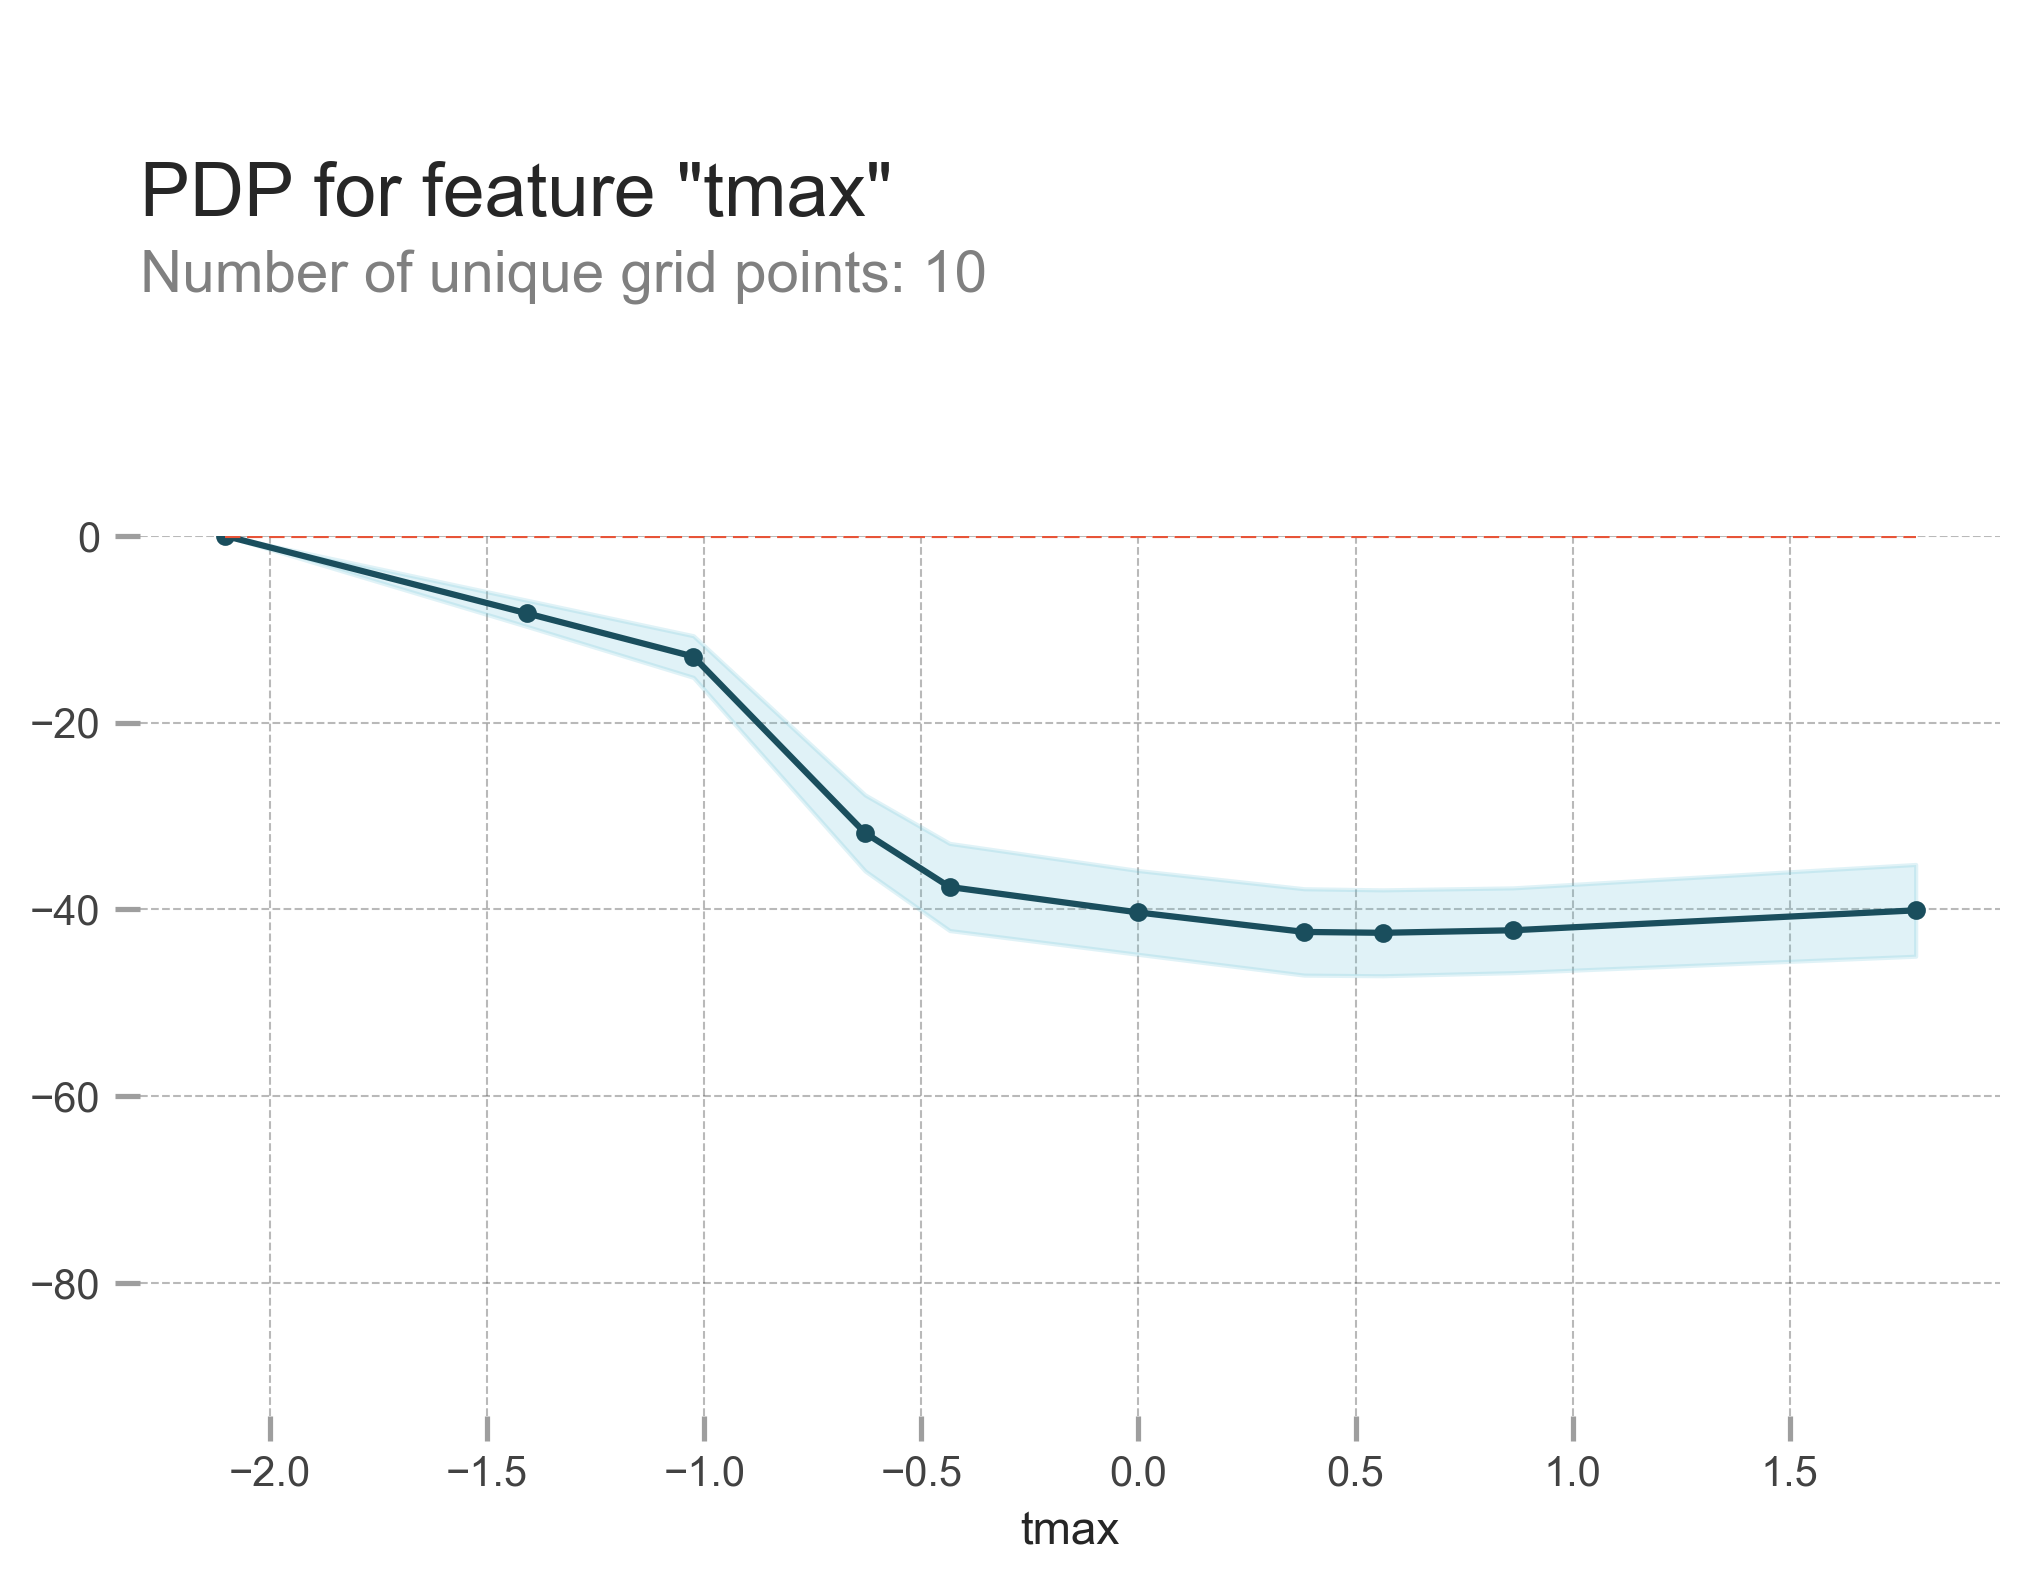
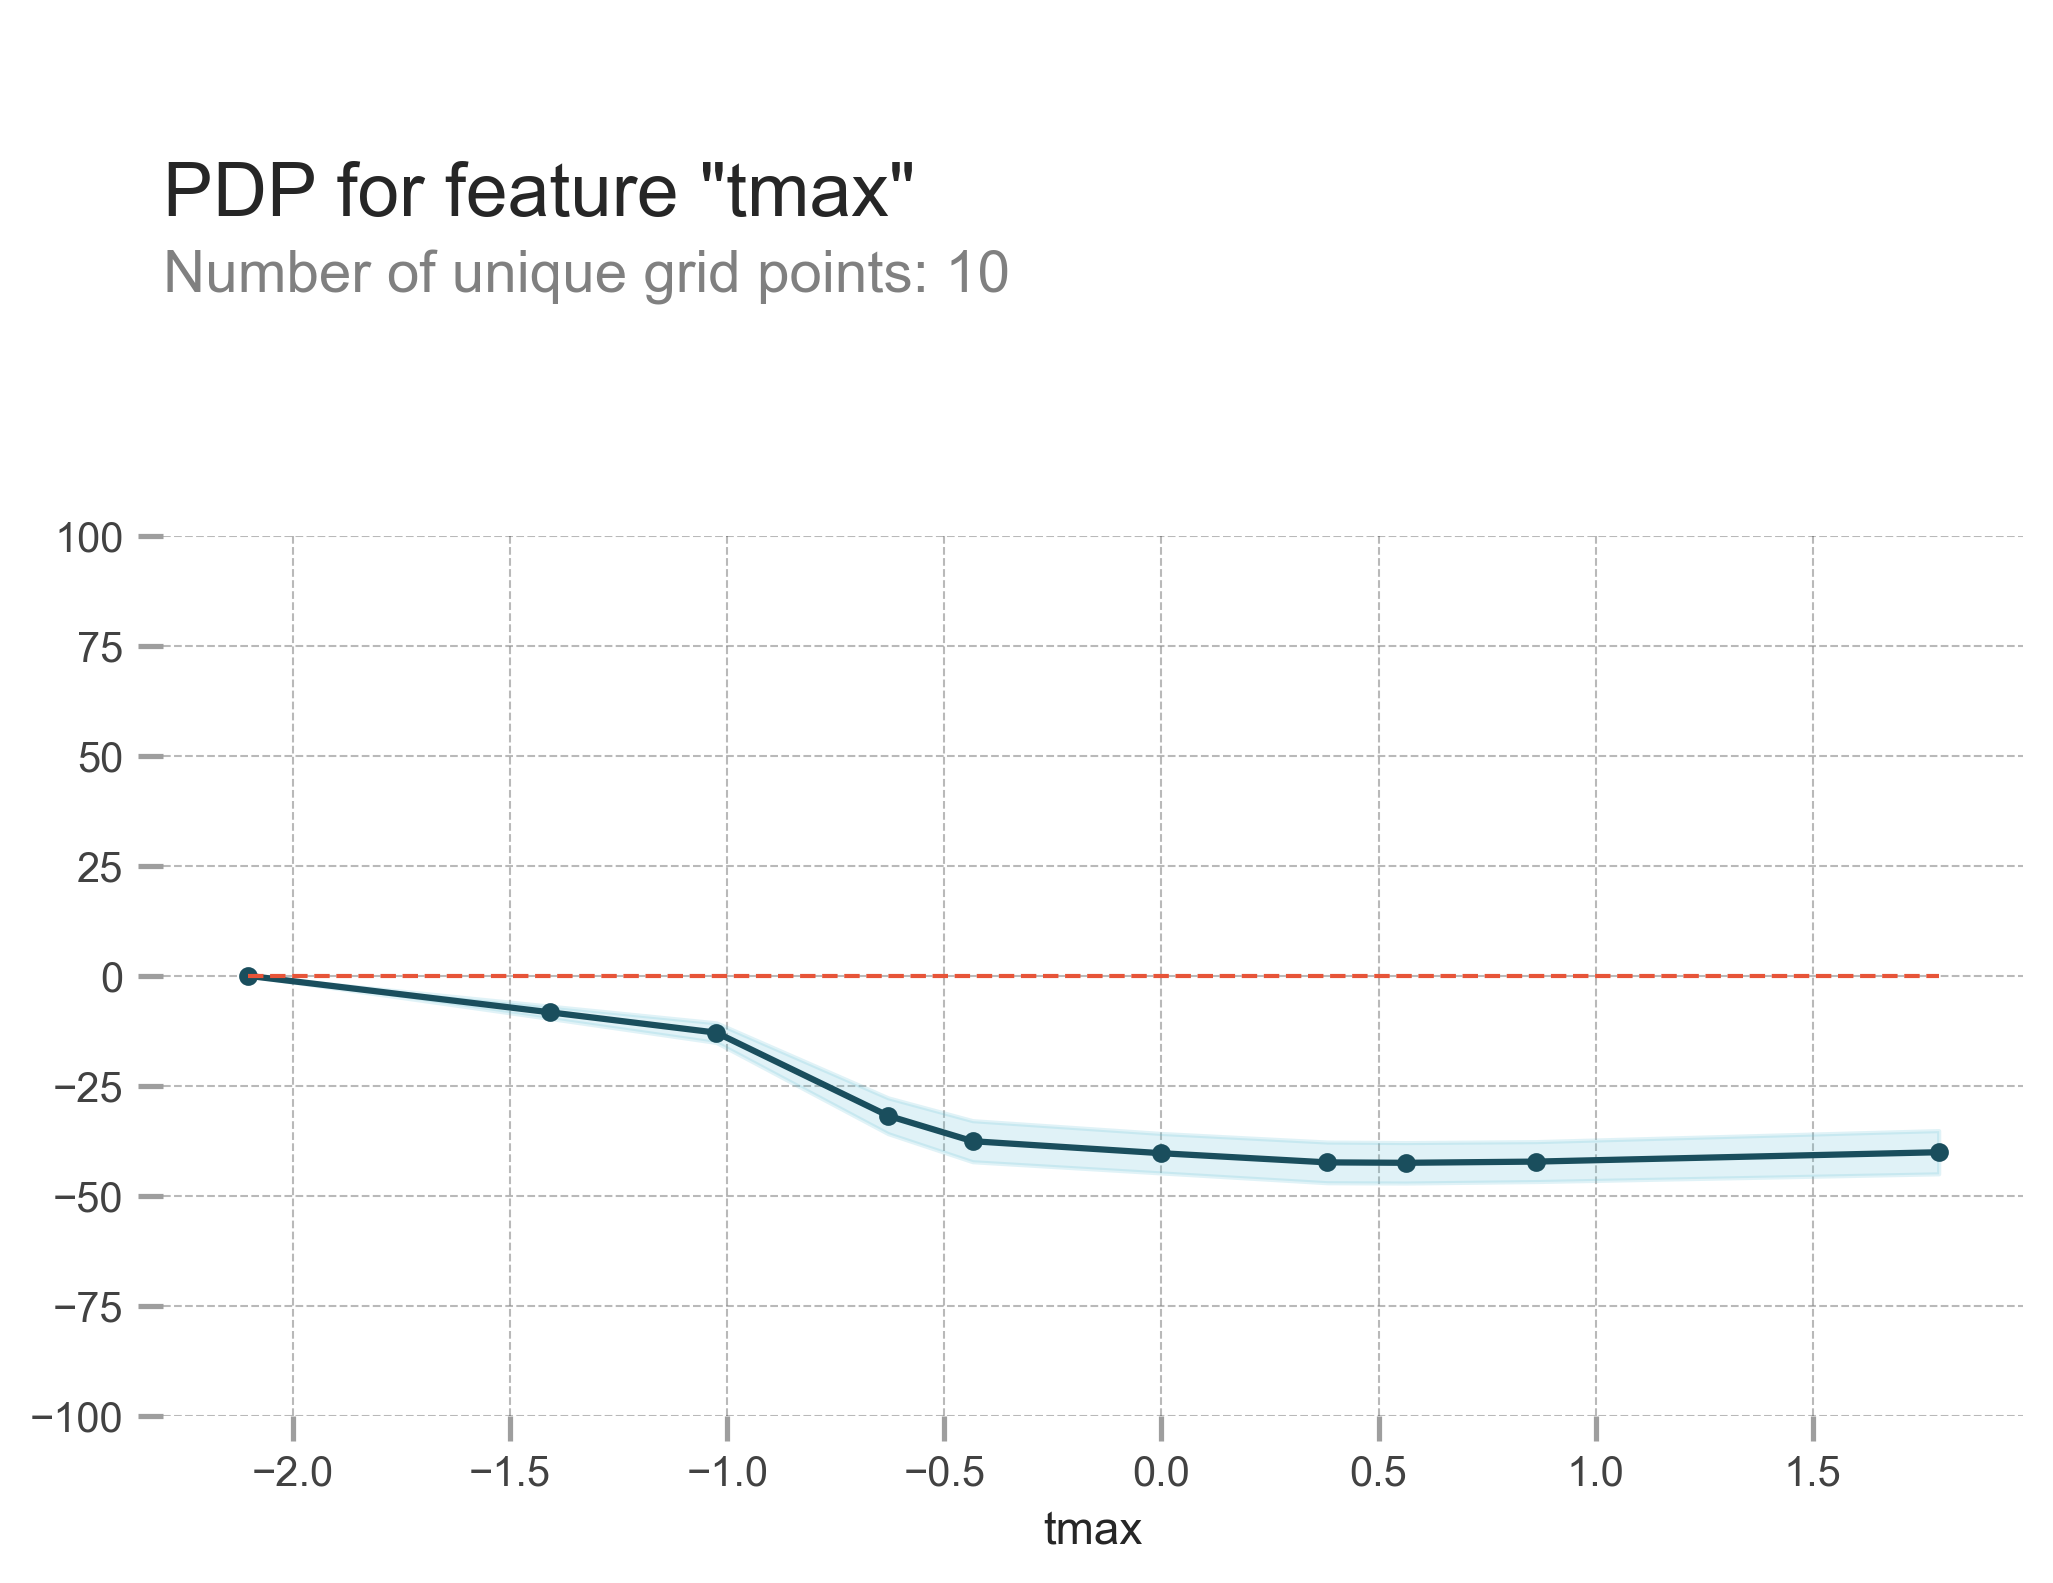
adjust scales for pdp plot and sarima performance metric

diff --git a/src_sample/interactiveWebpage/utils/data_pipeline.py b/src_sample/interactiveWebpage/utils/data_pipeline.py
@@ -23,29 +23,21 @@ from sklearn.base import BaseEstimator, TransformerMixin
 from sklearn.metrics import mean_absolute_error, mean_squared_error
 
 import tensorflow as tf
-from keras import Model, Sequential
+from keras import Sequential
 
 from keras.optimizers import Adam
 from keras.callbacks import EarlyStopping
 from keras.losses import MeanSquaredError
 from keras.metrics import MeanAbsoluteError
 
-from keras.layers import Dense, Conv1D, LSTM, Lambda, Reshape, RNN, LSTMCell
+from keras.layers import Dense, LSTM
 
 import warnings
 warnings.filterwarnings('ignore')
 
 # SARIMA libraries
-from statsmodels.graphics.tsaplots import plot_acf, plot_pacf
-from statsmodels.tsa.seasonal import seasonal_decompose, STL
-from statsmodels.stats.diagnostic import acorr_ljungbox
 from statsmodels.tsa.statespace.sarimax import SARIMAX
-from statsmodels.tsa.arima_process import ArmaProcess
-from statsmodels.graphics.gofplots import qqplot
-from statsmodels.tsa.stattools import adfuller
-from tqdm import tqdm_notebook
 from itertools import product
-from typing import Union
 
 
 # Fetch the historical data
@@ -564,7 +556,6 @@ def calc_shap(loc):
 
     return shap_plot_df
 
-
 # LSTM Predictions on past data
 def pred_lstm(loc, request_new_joblib, file_specifier):
     joblib_filename_lstm_res = f'joblib_files/lstm/{loc}_lstm_results_{file_specifier}.joblib'
@@ -954,17 +945,18 @@ def pred_lstm_multi(loc, request_new_joblib, file_specifier, shift):
     ms_test_performance = ms_lstm_model.evaluate(multi_window.test, verbose=0)
 
     # Gather data for predictions
-    inputs, labels = multi_window.sample_batch  # Get a sample batch for predictions
-    predictions = ms_lstm_model(inputs)  # Generate predictions
+    inputs, labels = multi_window.sample_batch
+    predictions = ms_lstm_model(inputs)
 
+    # predictions_og_scale = scaler.inverse_transform(predictions.numpy())
     # Return model performance and predictions for further processing
-
     res = {
         'val_score': ms_val_performance,
         'test_score': ms_test_performance,
         'inputs': inputs,
         'labels': labels,
         'predictions': predictions.numpy()
+        # 'predictions': predictions_og_scale.numpy()
     }
 
     if not os.path.exists(joblib_filename_lstm_res):
@@ -1046,16 +1038,16 @@ def pred_sarima(loc, request_new_joblib, file_specifier):
     test['SARIMA_pred'] = SARIMA_pred
 
     
-    # Calculate the mean absolute percentage error (MAPE)
-    def calc_mape(y_true, y_pred):
-        return np.mean(np.abs((y_true - y_pred) / y_true)) * 100
+    # Calculate the mean absolute percentage error (MAE)
+    def calc_mae(y_true, y_pred):
+        return np.mean(np.abs(y_true - y_pred))
     
-    mape_SARIMA = calc_mape(test['averagekwh'], test['SARIMA_pred'])
+    mae_SARIMA = calc_mae(test['averagekwh'], test['SARIMA_pred'])
 
     res = {
         'test': test,
         'df': df,
-        'mape_SARIMA': mape_SARIMA
+        'mae_SARIMA': mae_SARIMA
     }
 
     if not os.path.exists(joblib_filename_sarima_res):

diff --git a/src_sample/interactiveWebpage/pages/analytics.py b/src_sample/interactiveWebpage/pages/analytics.py
@@ -2,8 +2,11 @@ import dash
 from dash import html, dcc, callback, Input, Output, State
 import dash_bootstrap_components as dbc
 import pandas as pd
+import matplotlib.pyplot as plt
+from plotly.tools import mpl_to_plotly
 import plotly.express as px
 import plotly.graph_objs as go
+from pdpbox import pdp
 
 from  utils.data_pipeline import (
     processing_pipeline,
@@ -936,7 +939,7 @@ analytics_objective_2_2 = html.Div(
                     [
                         # Div to display LSTM scores
                         html.Div(
-                            id = 'sarima_mape',
+                            id = 'sarima_mae',
                             style = {
                                 'marginTop': 20,
                                 'color': 'white',
@@ -1266,7 +1269,7 @@ def update_future_prediction(n_clicks, region): # BASICALLY PASS FOR NOW
 # SARIMA
 @callback(
     [
-        Output('sarima_mape', 'children'),
+        Output('sarima_mae', 'children'),
         Output('sarima_plot', 'figure'),
     ],
     [
@@ -1293,9 +1296,9 @@ def update_sarima(region):
 
     test = sarima_results['test']
     df = sarima_results['df']
-    mape_SARIMA = sarima_results['mape_SARIMA']
+    mae_SARIMA = sarima_results['mae_SARIMA']
 
-    mape_score = f'Mean Absolute Percentage Error (MAPE): {mape_SARIMA:.3f}'
+    mae_score = f'Mean Absolute Error (MAE): {mae_SARIMA:.3f}'
 
     fig = go.Figure()
 
@@ -1332,4 +1335,4 @@ def update_sarima(region):
         )
     )
 
-    return mape_score, fig
+    return mae_score, fig
